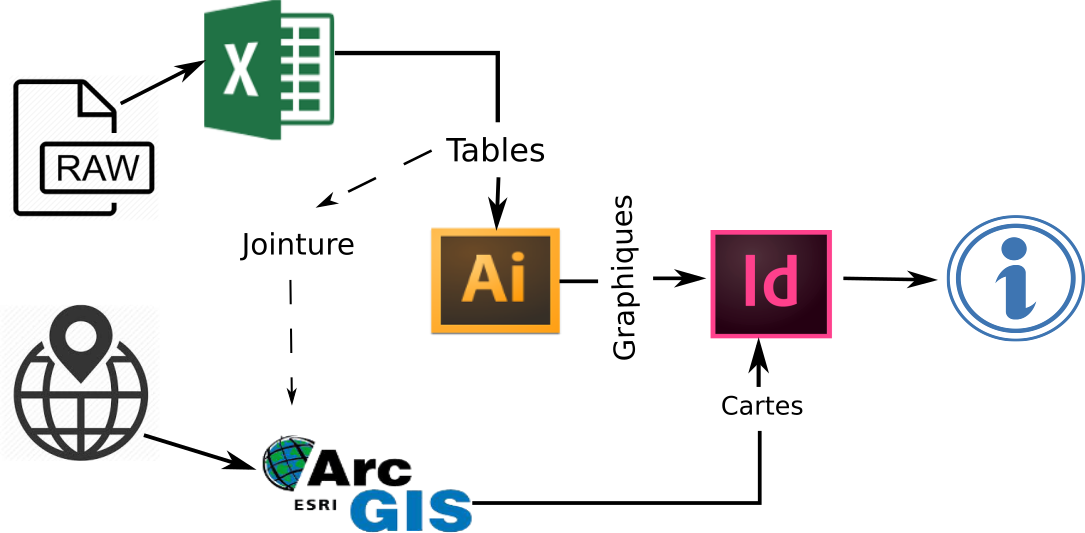
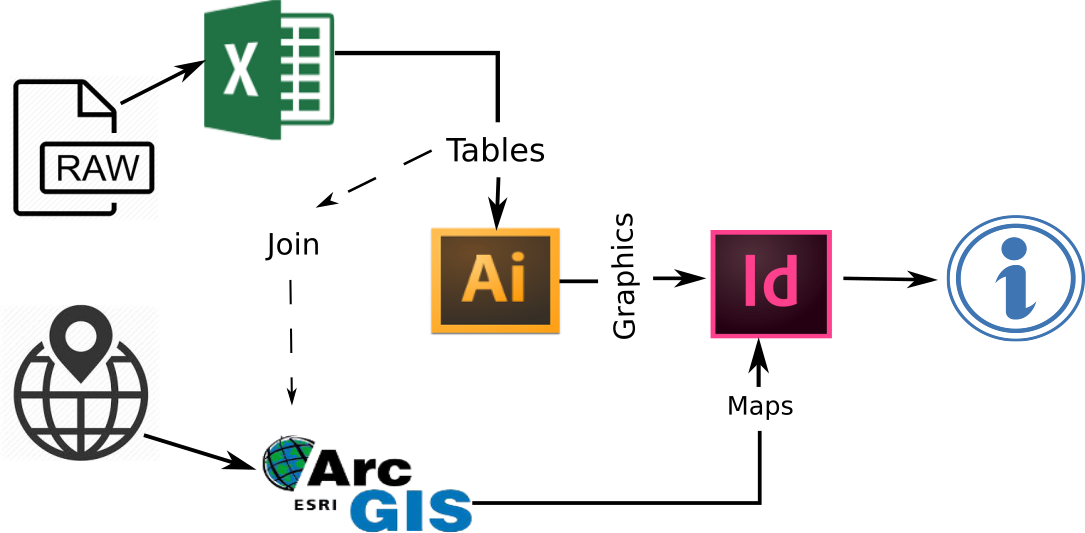
Add new figures

Changed region(s): [[0.5475, 0.3602, 0.6083, 0.6904], [0.2129, 0.4203, 0.3346, 0.4803], [0.6691, 0.7205, 0.7604, 0.7805]]

diff --git a/index.html b/index.html
@@ -24,16 +24,25 @@ class: center, middle, inverse, title-slide
 
 ---
 class: center, middle, inverse
-## What is humanitarian data science ?
+## Why humanitarian data science ?
 
 ---
-class: center, middle
+## Analysis is often slow and costly (license and staff)
 .center[![R](./images/reproducibleFlow.png)]
+
+---
+## Why humanitarian data science
+- Analysis is often error prone and not reproducible (can give an example)
+
+
+---
+## Why humanitarian data science
+- Humanitarians informations managers come from a wide varied of disciplines and background
+- Most lack knowledge of modern data science tools
 
 ---
 class: center, middle
 .center[![flow](./images/RFlow.png)]
-
 
 ---
 class: center, middle
@@ -48,12 +57,10 @@ class: center, middle
 .center[![typeR](./images/typeR.gif)]
 
 ---
-## What is R ?
+## Why R ?
 
- - `R` est un langage de programmation interpreté
- - `R` est gratuit et open source
- - `R` il existe une grande communauté et 12000 packages (add-ons)
- - `R` excelle dans la manipulation et la visualisation de données
+ - `R` is open source and free
+ - `R` great community and around 12000 packages (add-ons)
 
 
 ---
@@ -211,7 +218,8 @@ data %&gt;%
 
 ```r
 data %&gt;%
-  mutate(taille_metre = taille / 100, imc = poids / (taille_metre^2)) %&gt;%
+  mutate(taille_metre = taille / 100,
+         imc = poids / (taille_metre^2)) %&gt;%
   arrange(desc(imc))
 ```
 
@@ -240,16 +248,28 @@ class: center, middle
 
 ---
 class: center, middle, inverse
-## Building an open course
+## Building a Massive Open Online Course
+
+---
+class: center, middle, inverse
+## Demo
+
+---
+## Main activities and timeline
+
+- Develop core [curriculum](https://docs.google.com/document/d/1ztVle5UL7TPJXh9v5amzKxRhEutRf4WqhdnCuaR7kwc/edit#)
+- Organize a 1 week “sprint” session inviting core contributors (HDX, WFP, UNHCR, …) to build the skeleton and muscles of the course - **July 2018**
+- Refine content with support from DataCamp and possibly RStudio and test with large pool of IMO
+- Launch content online by end of 2018 advertise to users but also advertise so that content can be expanded/translated
 
 
 ---
 class: center, middle, inverse
 ## Questions?
 
-[dicko5@un.org](mailto:dicko5@un.org)
+&lt;!-- [dicko5@un.org](mailto:dicko5@un.org) --&gt;
 
-[dickoa.gitlab.io](http://dickoa.gitlab.io)
+&lt;!-- [dickoa.gitlab.io](http://dickoa.gitlab.io) --&gt;
     </textarea>
 <script src="https://remarkjs.com/downloads/remark-latest.min.js"></script>
 <script>var slideshow = remark.create({
